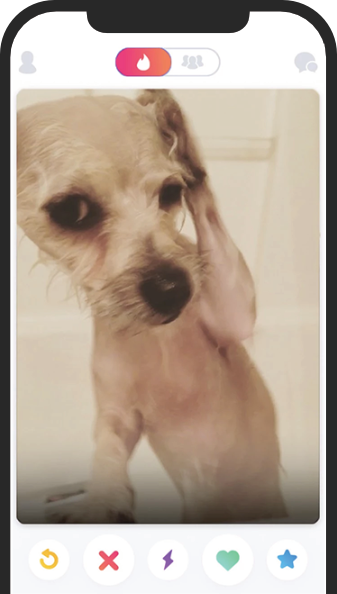
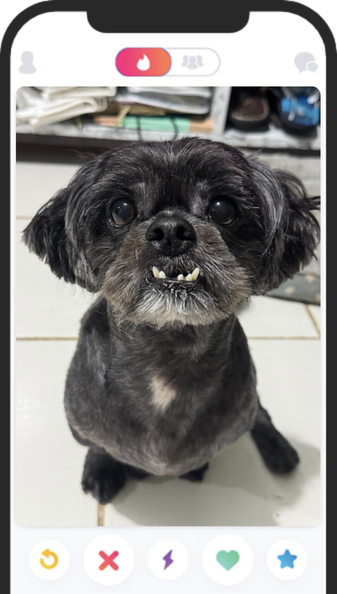
Add files via upload
Update - 8/13/2026

changed header image and testimony image.

diff --git a/index.html b/index.html
@@ -121,9 +121,9 @@
     <div class="my-5"> 
       <div class="p-5 text-center bg-body-tertiary"> 
         <div class="container py-5"> 
-          <h2 class="text-body-emphasis">"I no longer have to sniff other dogs for love. I've found the hottest Corgi on TinDog. Woof."</h2> 
-          <img src="./images/dog-img.jpg" class="profile-img mt-5 mb-2" alt="dog-img">
-          <p class="col-lg-8 mx-auto lead mt-2">Pebbles, New York</p> 
+          <h2 class="text-body-emphasis">"I no longer have to sniff other dogs for love. I've found the hottest Shih Tzu on TinDog. Woof."</h2> 
+          <img src="./images/dog-img.png" class="profile-img mt-5 mb-2" alt="dog-img">
+          <p class="col-lg-8 mx-auto lead mt-2">Oreo, Laguna</p> 
         </div> 
           
         <div class="container">

diff --git a/style.css b/style.css
@@ -1,0 +1,28 @@
+.gradient-background {
+  background: linear-gradient(300deg, #00bfff, #ff4c68, #ef8172);
+  background-size: 180% 180%;
+  animation: gradient-animation 18s ease infinite;
+}
+
+@keyframes gradient-animation {
+  0% {
+    background-position: 0% 50%;
+  }
+  50% {
+    background-position: 100% 50%;
+  }
+  100% {
+    background-position: 0% 50%;
+  }
+}
+
+.icon-square {
+  width: 3rem;
+  height: 3rem;
+  border-radius: 0.75rem;
+}
+
+.profile-img {
+  height: 100px;
+  border-radius: 50%;
+}
